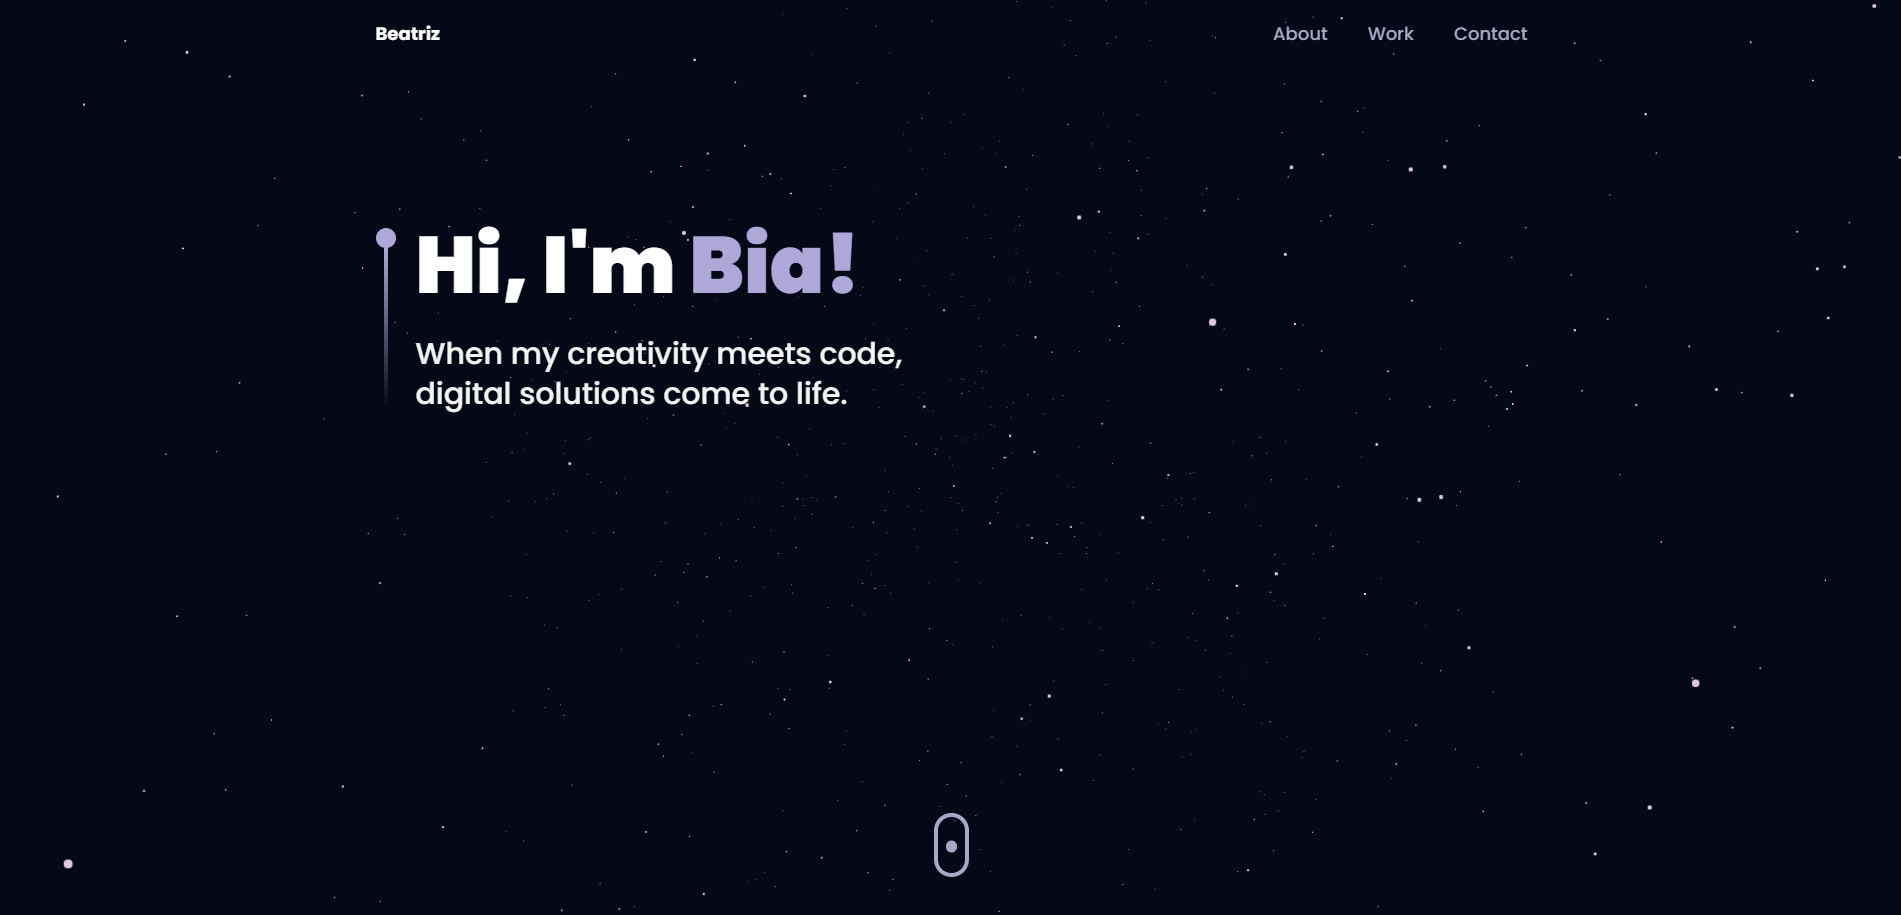
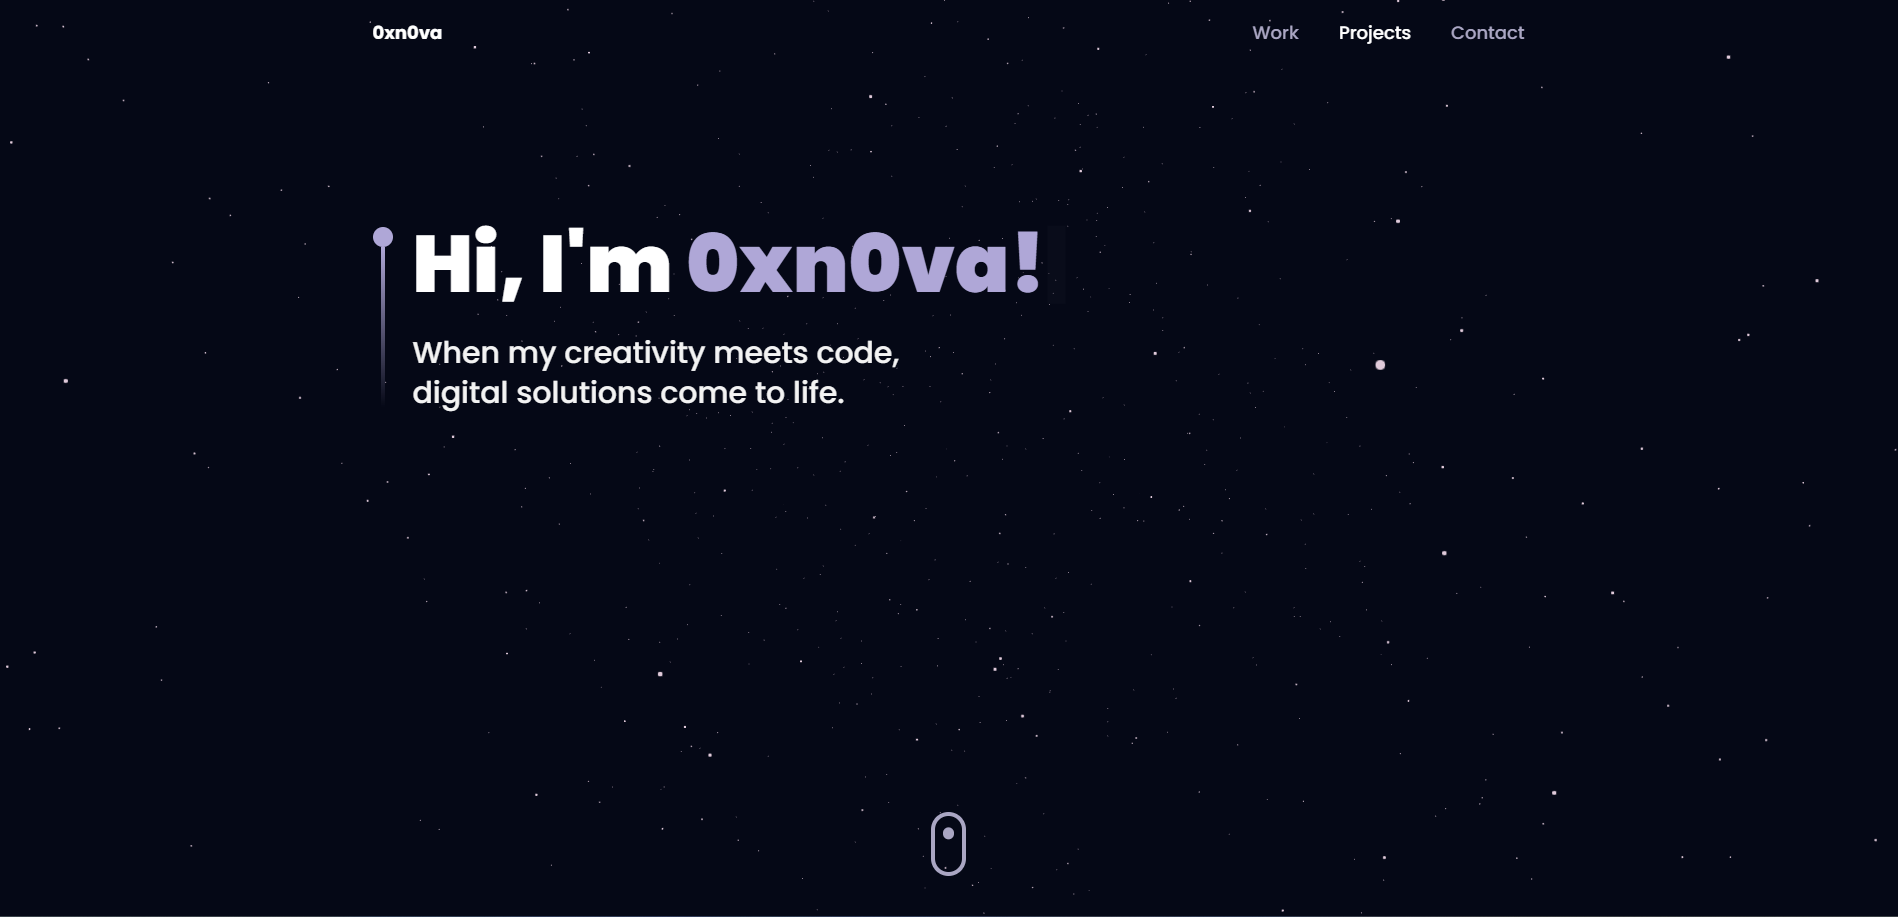
delete legacy code and update browserslist

diff --git a/src/components/Footer.tsx b/src/components/Footer.tsx
@@ -15,12 +15,6 @@ const githubIcon = (
   </svg>
 )
 
-const linkedInIcon = (
-  <svg width="24" height="24" viewBox="0 0 24 24" xmlns="http://www.w3.org/2000/svg" fill="#ffffff">
-    <path d="M20,2H4C2.9,2,2,2.9,2,4v16c0,1.1,0.9,2,2,2h16c1.1,0,2-0.9,2-2V4C22,2.9,21.1,2,20,2z M8.1,18H5V9.4h3.1V18z M6.5,8.4 L6.5,8.4C5.6,8.4,5,7.8,5,7s0.6-1.4,1.6-1.4c0.9,0,1.5,0.6,1.5,1.4S7.5,8.4,6.5,8.4z M19,18h-3.1v-4.7c0-1.3-0.8-1.6-1.1-1.6 s-1.3,0.2-1.3,1.6c0,0.2,0,4.7,0,4.7h-3.1V9.4h3.1v1.2c0.4-0.7,1.2-1.2,2.7-1.2s2.7,1.2,2.7,3.9L19,18L19,18z" />
-  </svg>
-)
-
 const Footer = () => {
   const getCurrentYear = () => {
     return new Date().getFullYear()
@@ -28,7 +22,7 @@ const Footer = () => {
 
   return (
     <div className="flex flex-col items-center sm:flex-row sm:justify-between">
-      <div className="text-white text-[14px] sm:text-[16px] md:text-[18px] font-bold mb-4 sm:mb-0">Beatriz, {getCurrentYear()}</div>
+      <div className="text-white text-[14px] sm:text-[16px] md:text-[18px] font-bold mb-4 sm:mb-0">0xn0va, {getCurrentYear()}</div>
 
       <div className="flex gap-6">
         <a
@@ -38,15 +32,6 @@ const Footer = () => {
           className="opacity-70 hover:opacity-100 transition-opacity duration-300"
         >
           {githubIcon}
-        </a>
-
-        <a
-          href="https://www.linkedin.com/in/beatriz-pereira-dev/"
-          target="_blank"
-          rel="noopener noreferrer"
-          className="opacity-70 hover:opacity-100 transition-opacity duration-300"
-        >
-          {linkedInIcon}
         </a>
       </div>
     </div>

diff --git a/src/components/Hero.tsx b/src/components/Hero.tsx
@@ -6,7 +6,7 @@ import Typed from "typed.js"
 const Hero = () => {
   useEffect(() => {
     const typed = new Typed(".auto-type", {
-      strings: [" Bia!", "a Frontend Dev!"],
+      strings: [" 0xn0va!", "a Frontend dev!"],
       typeSpeed: 100,
       backSpeed: 70,
       loop: true,
@@ -20,7 +20,6 @@ const Hero = () => {
   return (
     <section className={`relative w-full h-screen mx-auto`}>
       <div className={`absolute inset-0 top-[120px] max-w-7xl mx-auto ${styles.paddingX} flex flex-row items-start gap-5 py-12 mt-10`}>
-        {/* div circle and line bottom */}
         <div className="flex flex-col justify-center items-center mt-5">
           <div className="w-5 h-5 rounded-full bg-[#AFA7D7]" />
           <div className="w-1 h-40 lilac-gradient" />
@@ -37,7 +36,6 @@ const Hero = () => {
         </div>
       </div>
 
-      {/* scroll down */}
       <div className="absolute xs:bottom-10 bottom-32 w-full flex justify-center items-center">
         <a href="#work">
           <div className="w-[35px] h-[64px] rounded-3xl border-4 border-secondary flex justify-center items-start p-2">

diff --git a/src/components/Navbar.tsx b/src/components/Navbar.tsx
@@ -27,14 +27,14 @@ export default function Navbar() {
     <nav className={`${styles.paddingX} w-full flex items-center py-5 fixed top-0 z-20 ${scrolled ? "bg-primary" : "bg-transparent"}`}>
       <div className={`w-full ${styles.paddingN} max-w-7xl mx-auto flex justify-between items-center`}>
         <a
-          href="https://0xn0va.github.io/portfolio/"
+          href="https://0xn0va.github.io/"
           className="flex items-center gap-2"
           onClick={() => {
-            setActive("") //track where user are on the page
-            window.scrollTo(0, 0) //scroll to the top of the page
+            setActive("")
+            window.scrollTo(0, 0)
           }}
         >
-          <p className="text-white text-[18px] font-bold cursor-pointer flex gap-2 ">Beatriz</p>
+          <p className="text-white text-[18px] font-bold cursor-pointer flex gap-2 ">0xn0va</p>
         </a>
 
         <ul className="list-none hidden sm:flex flex-row gap-10">

diff --git a/dist/index.html b/dist/index.html
@@ -5,7 +5,7 @@
     <link rel="icon" href="/assets/favicon-n4v11xkM.ico" />
     <meta name="viewport" content="width=device-width, initial-scale=1.0" />
     <title>Beatriz | Portfolio</title>
-    <script type="module" crossorigin src="/assets/index-BnifiIxC.js"></script>
+    <script type="module" crossorigin src="/assets/index-D6-drFAJ.js"></script>
     <link rel="stylesheet" crossorigin href="/assets/index-BBVJvoA1.css">
   </head>
   <body>

diff --git a/index.html b/index.html
@@ -2,9 +2,9 @@
 <html lang="en">
   <head>
     <meta charset="UTF-8" />
-    <link rel="icon" href="./src/assets/favicon.ico" />
+    <link rel="icon" href="./src/assets/gh.jpg" />
     <meta name="viewport" content="width=device-width, initial-scale=1.0" />
-    <title>Beatriz | Portfolio</title>
+    <title>0xn0va | Portfolio</title>
   </head>
   <body>
     <div id="root"></div>
